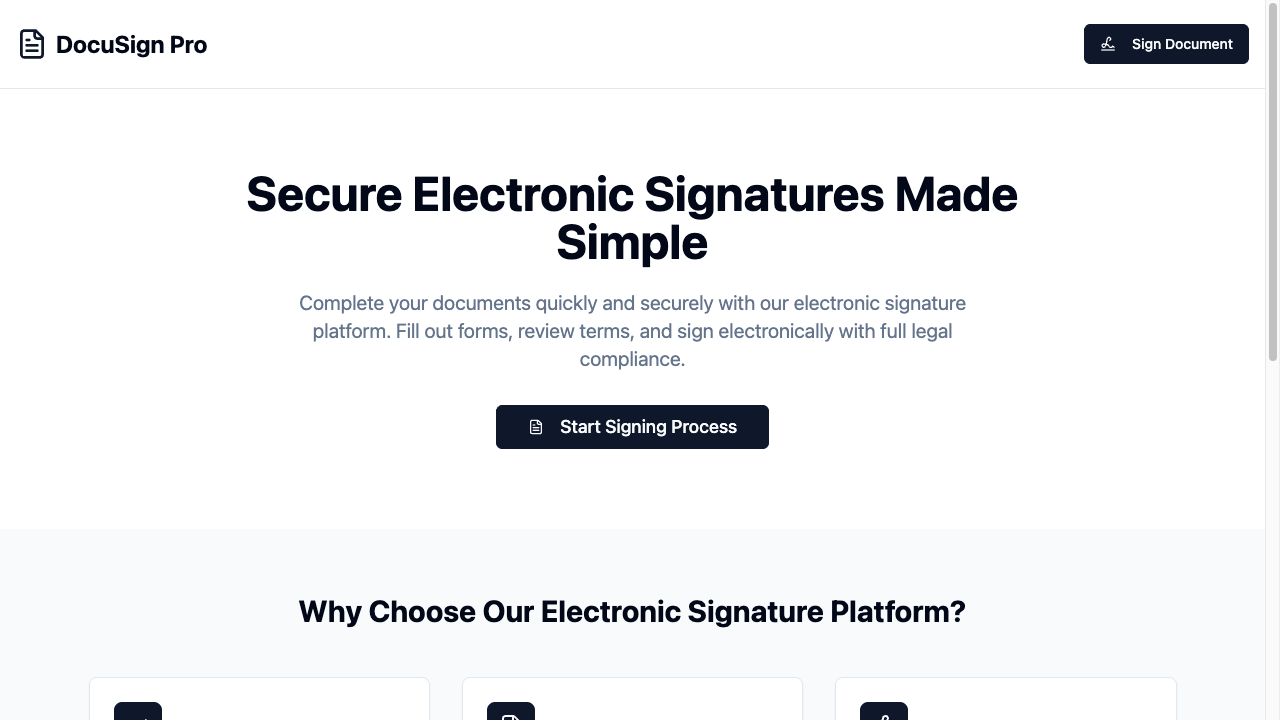
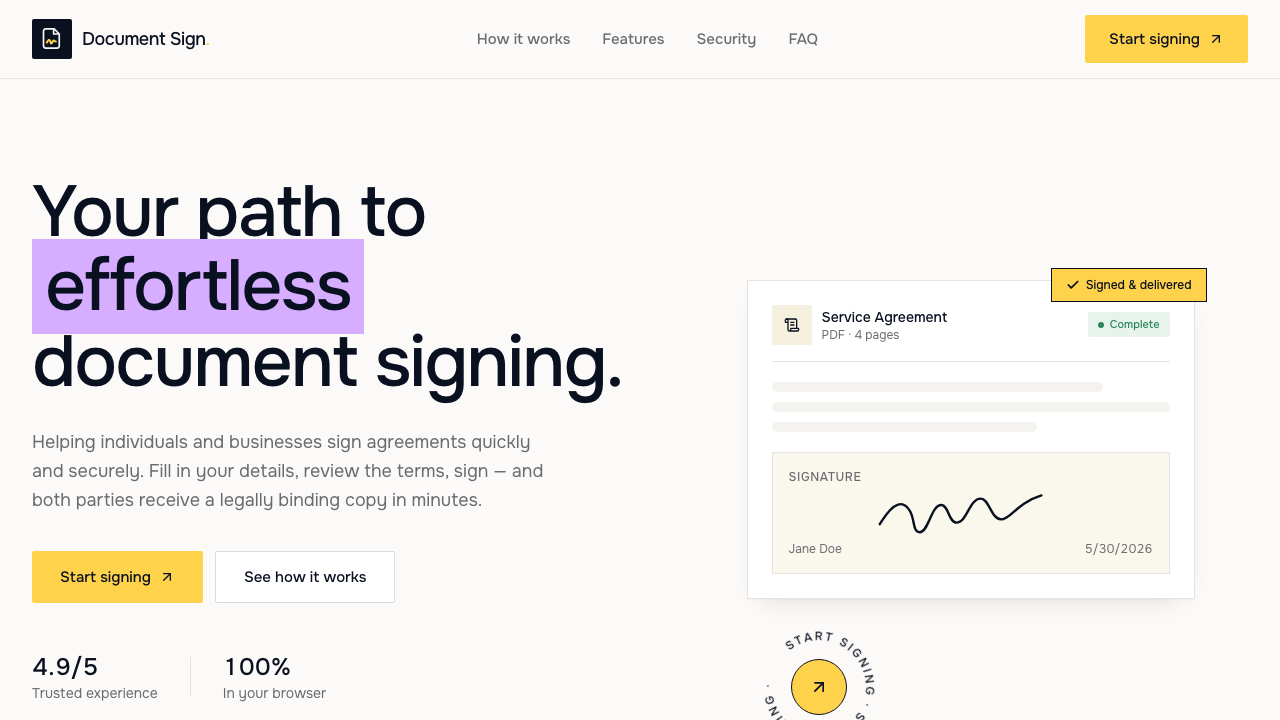
Rework web dev section + add Turnstile spam protection
- Reorder to 6: RT Accounting, Suba Hire, ACME Studio (video), Document
  Signing (new dashboard shot), Portfolio, SupaPing
- Drop AquaFlow and AquaCare
- Web dev card now supports a looping muted video preview (ACME Studio)
- Cloudflare Turnstile on the contact form: widget + token client-side,
  server-side siteverify in the Worker (enforced once TURNSTILE_SECRET set)
- Pass VITE_TURNSTILE_SITE_KEY into the build step

diff --git a/src/components/ContactForm.tsx b/src/components/ContactForm.tsx
@@ -1,3 +1,4 @@
+import { useEffect, useRef, useState } from 'react';
 import { useForm } from 'react-hook-form';
 import { zodResolver } from '@hookform/resolvers/zod';
 import { z } from 'zod';
@@ -7,6 +8,19 @@ import { ArrowRight, Loader2 } from 'lucide-react';
 // Endpoint is same-origin by default (Cloudflare Worker on /api/contact).
 // Override for local testing via VITE_CONTACT_ENDPOINT (e.g. wrangler dev URL).
 const ENDPOINT = (import.meta as any).env?.VITE_CONTACT_ENDPOINT || '/api/contact';
+
+// Cloudflare Turnstile site key (public). When unset, the widget is skipped
+// so the form still works locally before Turnstile is configured.
+const TURNSTILE_SITE_KEY = (import.meta as any).env?.VITE_TURNSTILE_SITE_KEY || '';
+
+declare global {
+  interface Window {
+    turnstile?: {
+      render: (el: HTMLElement, opts: Record<string, unknown>) => string;
+      reset: (id?: string) => void;
+    };
+  }
+}
 
 const schema = z.object({
   name: z.string().trim().min(2, 'Please enter your name'),
@@ -26,16 +40,59 @@ const ContactForm = () => {
     formState: { errors, isSubmitting },
   } = useForm<FormValues>({ resolver: zodResolver(schema), mode: 'onBlur' });
 
+  // Turnstile widget — render once the script is ready, track its token.
+  const turnstileEl = useRef<HTMLDivElement>(null);
+  const widgetId = useRef<string | null>(null);
+  const [token, setToken] = useState('');
+
+  useEffect(() => {
+    if (!TURNSTILE_SITE_KEY) return;
+    let cancelled = false;
+    const render = () => {
+      if (cancelled || widgetId.current || !window.turnstile || !turnstileEl.current) return;
+      widgetId.current = window.turnstile.render(turnstileEl.current, {
+        sitekey: TURNSTILE_SITE_KEY,
+        theme: 'dark',
+        callback: (t: string) => setToken(t),
+        'expired-callback': () => setToken(''),
+        'error-callback': () => setToken(''),
+      });
+    };
+    if (window.turnstile) {
+      render();
+    } else {
+      const poll = setInterval(() => {
+        if (window.turnstile) {
+          render();
+          clearInterval(poll);
+        }
+      }, 200);
+      return () => {
+        cancelled = true;
+        clearInterval(poll);
+      };
+    }
+    return () => {
+      cancelled = true;
+    };
+  }, []);
+
   const onSubmit = async (values: FormValues) => {
+    if (TURNSTILE_SITE_KEY && !token) {
+      toast.error('Please complete the verification below.');
+      return;
+    }
     try {
       const res = await fetch(ENDPOINT, {
         method: 'POST',
         headers: { 'Content-Type': 'application/json' },
-        body: JSON.stringify(values),
+        body: JSON.stringify({ ...values, turnstileToken: token }),
       });
       if (!res.ok) throw new Error(`Request failed (${res.status})`);
       toast.success("Message sent — I'll be in touch soon.");
       reset();
+      setToken('');
+      if (widgetId.current && window.turnstile) window.turnstile.reset(widgetId.current);
     } catch (err) {
       toast.error('Something went wrong. Please email me directly instead.');
     }
@@ -76,6 +133,8 @@ const ContactForm = () => {
         <textarea id="cf-message" rows={5} placeholder="How can I help?" className={`${fieldCls} resize-y`} {...register('message')} />
         {errors.message && <p className={errCls}>{errors.message.message}</p>}
       </div>
+
+      {TURNSTILE_SITE_KEY && <div ref={turnstileEl} className="min-h-[65px]" />}
 
       <button type="submit" disabled={isSubmitting} className="btn-lime w-full disabled:opacity-60 sm:w-auto">
         {isSubmitting ? (

diff --git a/src/data/portfolio.ts b/src/data/portfolio.ts
@@ -36,10 +36,10 @@ import headshot from '../headshot.jpg';
 import rtt1 from '../web-rtt.png';
 import subahireImage from '../web-subahire.jpg';
 import supaping from '../web-supaping.jpg';
-import aquaFlowPlumbing from '../web-aquaflow.png';
-import aquaProCare from '../web-aquacare.png';
 import documentSigning from '../web-docsign.png';
 import portfolioWebsite from '../web-portfolio.png';
+import acmeStudioVideo from '../web-acme.mp4';
+import acmeStudioPoster from '../web-acme-poster.png';
 
 export const profile = {
   name: 'Daniel Farynski',
@@ -321,6 +321,8 @@ export type WebProject = {
   title: string;
   description: string;
   image: string;
+  /** Optional looping video preview, shown instead of the static image. */
+  video?: string;
   url: string;
   technologies: string[];
 };
@@ -343,28 +345,13 @@ export const webProjects: WebProject[] = [
     technologies: ['React', 'TypeScript', 'Supabase', 'Resend'],
   },
   {
-    title: 'SupaPing',
+    title: 'ACME Studio',
     description:
-      'Monitors free-tier Supabase projects to prevent inactivity pauses by injecting zero-impact daily queries, saving $25/month vs. the Pro tier.',
-    image: supaping,
-    url: 'https://supaping.com',
-    technologies: ['React', 'TypeScript', 'Supabase', 'AWS'],
-  },
-  {
-    title: 'AquaFlow Plumbing',
-    description:
-      'Modern full-stack React/TypeScript web application for plumbers, showcasing capabilities, pricing and contact options.',
-    image: aquaFlowPlumbing,
-    url: 'https://plumbing.danielfarynski.com',
-    technologies: ['React', 'TypeScript', 'Supabase', 'Resend'],
-  },
-  {
-    title: 'AquaCare Pro',
-    description:
-      'Full-stack web application for aquarium specialists offering maintenance services and call-outs.',
-    image: aquaProCare,
-    url: 'https://aquarium.danielfarynski.com',
-    technologies: ['React', 'TypeScript', 'Supabase', 'Resend'],
+      'A bold, motion-led landing experience for a creative studio, with cursor-reactive lighting and cinematic scroll transitions that bring the brand to life.',
+    image: acmeStudioPoster,
+    video: acmeStudioVideo,
+    url: 'https://acmestudio.danielfarynski.com',
+    technologies: ['Node.js', 'GitHub Actions', 'CI/CD', 'AWS S3'],
   },
   {
     title: 'Document Signing',
@@ -381,6 +368,14 @@ export const webProjects: WebProject[] = [
     image: portfolioWebsite,
     url: 'https://danielfarynski.com',
     technologies: ['React', 'TypeScript', 'Supabase', 'Resend'],
+  },
+  {
+    title: 'SupaPing',
+    description:
+      'Monitors free-tier Supabase projects to prevent inactivity pauses by injecting zero-impact daily queries, saving $25/month vs. the Pro tier.',
+    image: supaping,
+    url: 'https://supaping.com',
+    technologies: ['React', 'TypeScript', 'Supabase', 'AWS'],
   },
 ];
 

diff --git a/worker/index.js b/worker/index.js
@@ -40,6 +40,25 @@ const esc = (s) =>
 
 const emailRe = /^[^@\s]+@[^@\s]+\.[^@\s]+$/;
 
+// Verify a Cloudflare Turnstile token server-side. Returns true on success.
+async function verifyTurnstile(secret, token, request) {
+  if (!token) return false;
+  const form = new URLSearchParams({ secret, response: token });
+  const ip = request.headers.get('CF-Connecting-IP');
+  if (ip) form.set('remoteip', ip);
+  try {
+    const r = await fetch('https://challenges.cloudflare.com/turnstile/v0/siteverify', {
+      method: 'POST',
+      headers: { 'Content-Type': 'application/x-www-form-urlencoded' },
+      body: form,
+    });
+    const out = await r.json();
+    return out.success === true;
+  } catch {
+    return false;
+  }
+}
+
 export default {
   async fetch(request, env) {
     if (request.method === 'OPTIONS') {
@@ -60,9 +79,17 @@ export default {
     const email = (data?.email || '').toString().trim();
     const message = (data?.message || '').toString().trim();
     const honeypot = (data?.company || '').toString().trim();
+    const turnstileToken = (data?.turnstileToken || '').toString();
 
     // Silently accept bot submissions (honeypot filled) without sending.
     if (honeypot) return json({ ok: true }, 200, request);
+
+    // Cloudflare Turnstile — only enforced once the secret is configured,
+    // so the form keeps working locally / before the widget is set up.
+    if (env.TURNSTILE_SECRET) {
+      const human = await verifyTurnstile(env.TURNSTILE_SECRET, turnstileToken, request);
+      if (!human) return json({ error: 'Verification failed, please try again.' }, 403, request);
+    }
 
     const fields = [];
     if (name.length < 2) fields.push('name');

diff --git a/src/concepts/Editorial.tsx b/src/concepts/Editorial.tsx
@@ -461,11 +461,23 @@ const Editorial = () => {
                 className="group flex basis-full grow-0 flex-col border border-foreground/15 bg-background p-6 transition-colors hover:bg-secondary sm:basis-[calc(50%-0.5rem)] md:p-8"
               >
                 <div className="mb-5 aspect-video overflow-hidden border border-foreground/10 bg-secondary">
-                  <img
-                    src={p.image}
-                    alt={p.title}
-                    className="h-full w-full object-cover transition-transform duration-500 group-hover:scale-[1.03]"
-                  />
+                  {p.video ? (
+                    <video
+                      src={p.video}
+                      poster={p.image}
+                      autoPlay
+                      loop
+                      muted
+                      playsInline
+                      className="h-full w-full object-cover transition-transform duration-500 group-hover:scale-[1.03]"
+                    />
+                  ) : (
+                    <img
+                      src={p.image}
+                      alt={p.title}
+                      className="h-full w-full object-cover transition-transform duration-500 group-hover:scale-[1.03]"
+                    />
+                  )}
                 </div>
                 <div className="mb-2 flex items-center justify-between gap-3">
                   <h3 className="font-display text-xl uppercase tracking-tight">{p.title}</h3>

diff --git a/index.html b/index.html
@@ -26,6 +26,9 @@
       href="https://fonts.googleapis.com/css2?family=Anton&family=Archivo:wght@400;500;600;700;800;900&family=Inter:wght@300;400;500;600;700&family=Instrument+Serif:ital@0;1&family=JetBrains+Mono:wght@400;500;700&family=Space+Grotesk:wght@400;500;600;700&display=swap"
       rel="stylesheet"
     />
+
+    <!-- Cloudflare Turnstile (contact-form spam protection) -->
+    <script src="https://challenges.cloudflare.com/turnstile/v0/api.js" async defer></script>
   </head>
 
   <body>  